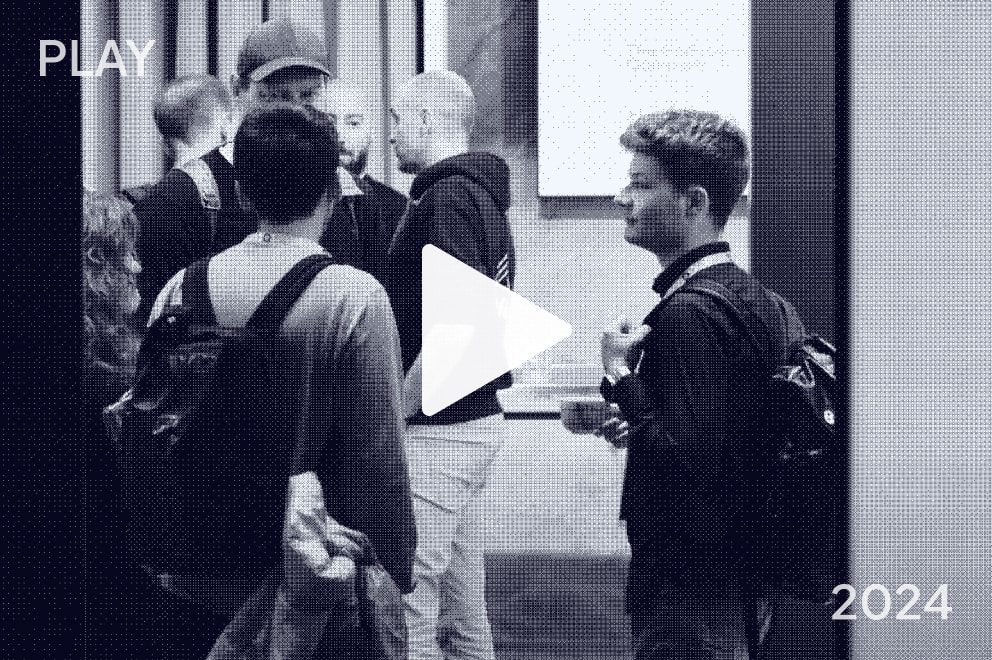
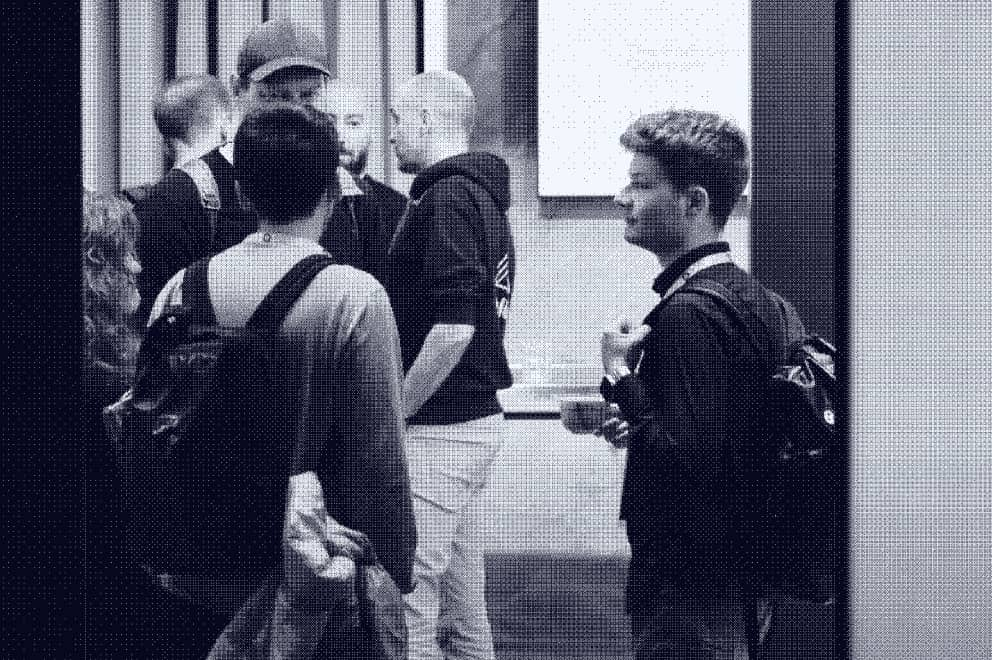
feat: update archive-2024 video source

diff --git a/src/components/pages/archive/hero/hero.jsx b/src/components/pages/archive/hero/hero.jsx
@@ -10,7 +10,7 @@ const description =
   'Thank you to each of you for making <b>Kubernetes Community Days Zürich</b> a resounding success. Our sincere thanks also go to our <b>sponsors</b>. Your support played a crucial role in the success of this event.';
 const links = {
   2023: 'https://www.youtube.com/watch?v=7-b0llQFT8E',
-  2024: 'https://www.youtube.com/watch?v=bQLBOmHozO8',
+  2024: 'https://www.youtube.com/watch?v=WAgs3D6Sv30',
 };
 
 const Hero = ({ year }) => {
@@ -49,62 +49,54 @@ const Hero = ({ year }) => {
           </Button>
         </div>
         <div className="relative w-[59%] shrink-0 xs:w-full">
+          <span className="absolute bottom-[38%] right-28 z-20 text-lg font-bold leading-tight text-white shadow-[0_0_3px_rgba(10,17,51,0.07)] lg:right-[15%] md:bottom-[33%] md:text-sm sm:bottom-[35%] xs:right-[22%]">
+            {year}
+          </span>
+          <StaticImage
+            className="relative z-20 -ml-6 -mr-24 -mt-10 md:-mr-16 md:mt-7 xs:-mx-6 xs:mt-0"
+            src="./images/tv.png"
+            width={1679}
+            height={1202}
+            loading="eager"
+            alt=""
+          />
+          <button
+            className="group absolute left-[55%] top-[5%] z-30 block h-[63%] w-[700px] max-w-[72%] -translate-x-1/2 md:left-[53%] md:top-[18.8%] md:h-[54%] xs:left-1/2 xs:top-[14%] xs:max-w-[66%]"
+            type="button"
+            onClick={() => handleModalShow()}
+          >
+            <span className="sr-only">Play video</span>
+            <StaticImage
+              className="!absolute inset-0 z-0 transition-all duration-200 group-hover:scale-110"
+              src="./images/play-icon.png"
+              width={383}
+              height={395}
+              loading="eager"
+              alt=""
+            />
+          </button>
           {year === '2023' ? (
-            <>
-              <StaticImage
-                className="relative z-20 -ml-6 -mr-24 -mt-10 md:-mr-16 md:mt-7 xs:-mx-6 xs:mt-0"
-                src="./images/tv.png"
-                width={1679}
-                height={1202}
-                loading="eager"
-                alt=""
-              />
-              <button
-                className="group absolute left-[55%] top-[5%] z-30 block h-[63%] w-[700px] max-w-[72%] -translate-x-1/2 md:left-[53%] md:top-[18.8%] md:h-[54%] xs:left-1/2 xs:top-[14%] xs:max-w-[66%]"
-                type="button"
-                onClick={() => handleModalShow()}
-              >
-                <span className="sr-only">Play video</span>
-                <StaticImage
-                  className="!absolute inset-0 z-0 transition-all duration-200 group-hover:scale-110"
-                  src="./images/play-icon.png"
-                  width={383}
-                  height={395}
-                  loading="eager"
-                  alt=""
-                />
-              </button>
-              <video
-                className="absolute left-[55%] top-[5%] z-10 block max-w-[72%] -translate-x-1/2 md:top-[18.8%] xs:left-1/2 xs:top-[15%] xs:max-w-[66%]"
-                width="700"
-                height="472"
-                autoPlay
-                playsInline
-                muted
-                loop
-              >
-                <source type="video/webm" src="/images/archive.webm" />
-                <source type="video/mp4" src="/images/archive.mp4" />
-              </video>
-            </>
+            <video
+              className="absolute left-[55%] top-[5%] z-10 block max-w-[72%] -translate-x-1/2 md:top-[18.8%] xs:left-1/2 xs:top-[15%] xs:max-w-[66%]"
+              width="700"
+              height="472"
+              autoPlay
+              playsInline
+              muted
+              loop
+            >
+              <source type="video/webm" src="/images/archive.webm" />
+              <source type="video/mp4" src="/images/archive.mp4" />
+            </video>
           ) : (
-            <>
-              <button
-                className="absolute inset-0 z-30 block h-full w-full"
-                type="button"
-                onClick={() => handleModalShow()}
-              >
-                <span className="sr-only">Play video in modal</span>
-              </button>
-              <StaticImage
-                class="my-20 ml-20 max-w-[496px] lg:max-w-[362px] md:max-w-[262px] md:object-contain sm:max-w-none"
-                src="./images/cover-2024.jpg"
-                width={496}
-                height={330}
-                alt="Recap 2024 cover"
-                loading="lazy"
-              />
-            </>
+            <StaticImage
+              class="!absolute left-[55%] top-[8%] z-10 block w-[75%] -translate-x-1/2 md:top-[19%] xs:left-1/2 xs:top-[15%]"
+              src="./images/cover-2024.jpg"
+              width="496"
+              height="330"
+              alt="Recap 2024 cover"
+              loading="eager"
+            />
           )}
         </div>
       </div>

diff --git a/src/components/shared/modal/modal.jsx b/src/components/shared/modal/modal.jsx
@@ -43,6 +43,11 @@ const defaultModalBackdropAnimation = {
   exit: { opacity: 0 },
 };
 
+const videos = {
+  2023: 'https://www.youtube.com/embed/7-b0llQFT8E?autoplay=1&mute=0&rel=0',
+  2024: 'https://www.youtube.com/embed/WAgs3D6Sv30?autoplay=1&mute=0&rel=0',
+};
+
 const Modal = ({
   isVisible,
   modalData,
@@ -167,11 +172,7 @@ const Modal = ({
               <>
                 <iframe
                   allow="autoplay; picture-in-picture; web-share"
-                  src={
-                    dataYear === '2023'
-                      ? 'https://www.youtube.com/embed/7-b0llQFT8E?autoplay=1&mute=0&rel=0'
-                      : 'https://www.youtube.com/embed/bQLBOmHozO8?si=ddg1ZY9PONVGqc0o&autoplay=1&mute=0&rel=0'
-                  }
+                  src={videos[dataYear]}
                   title={
                     dataYear === '2023'
                       ? 'Kubernetes Community Days Zürich 2023'
